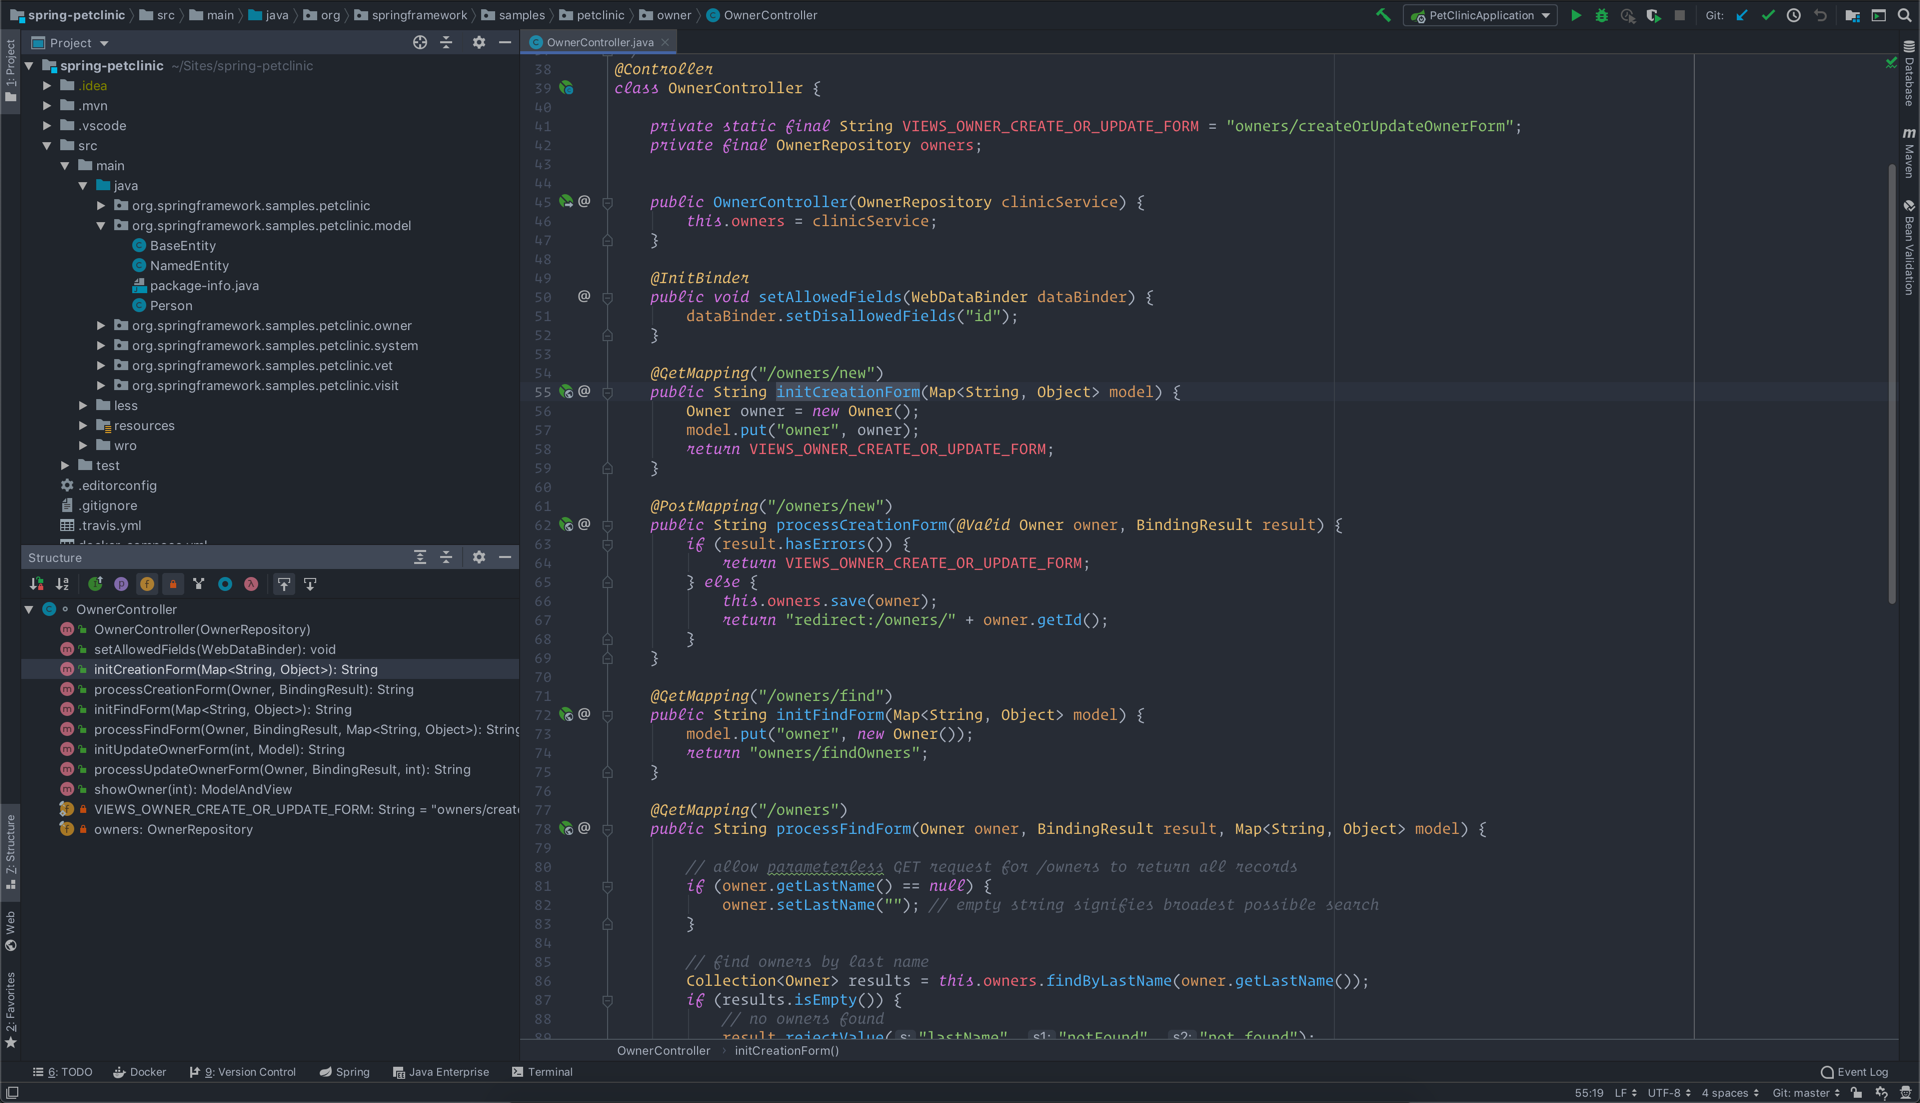
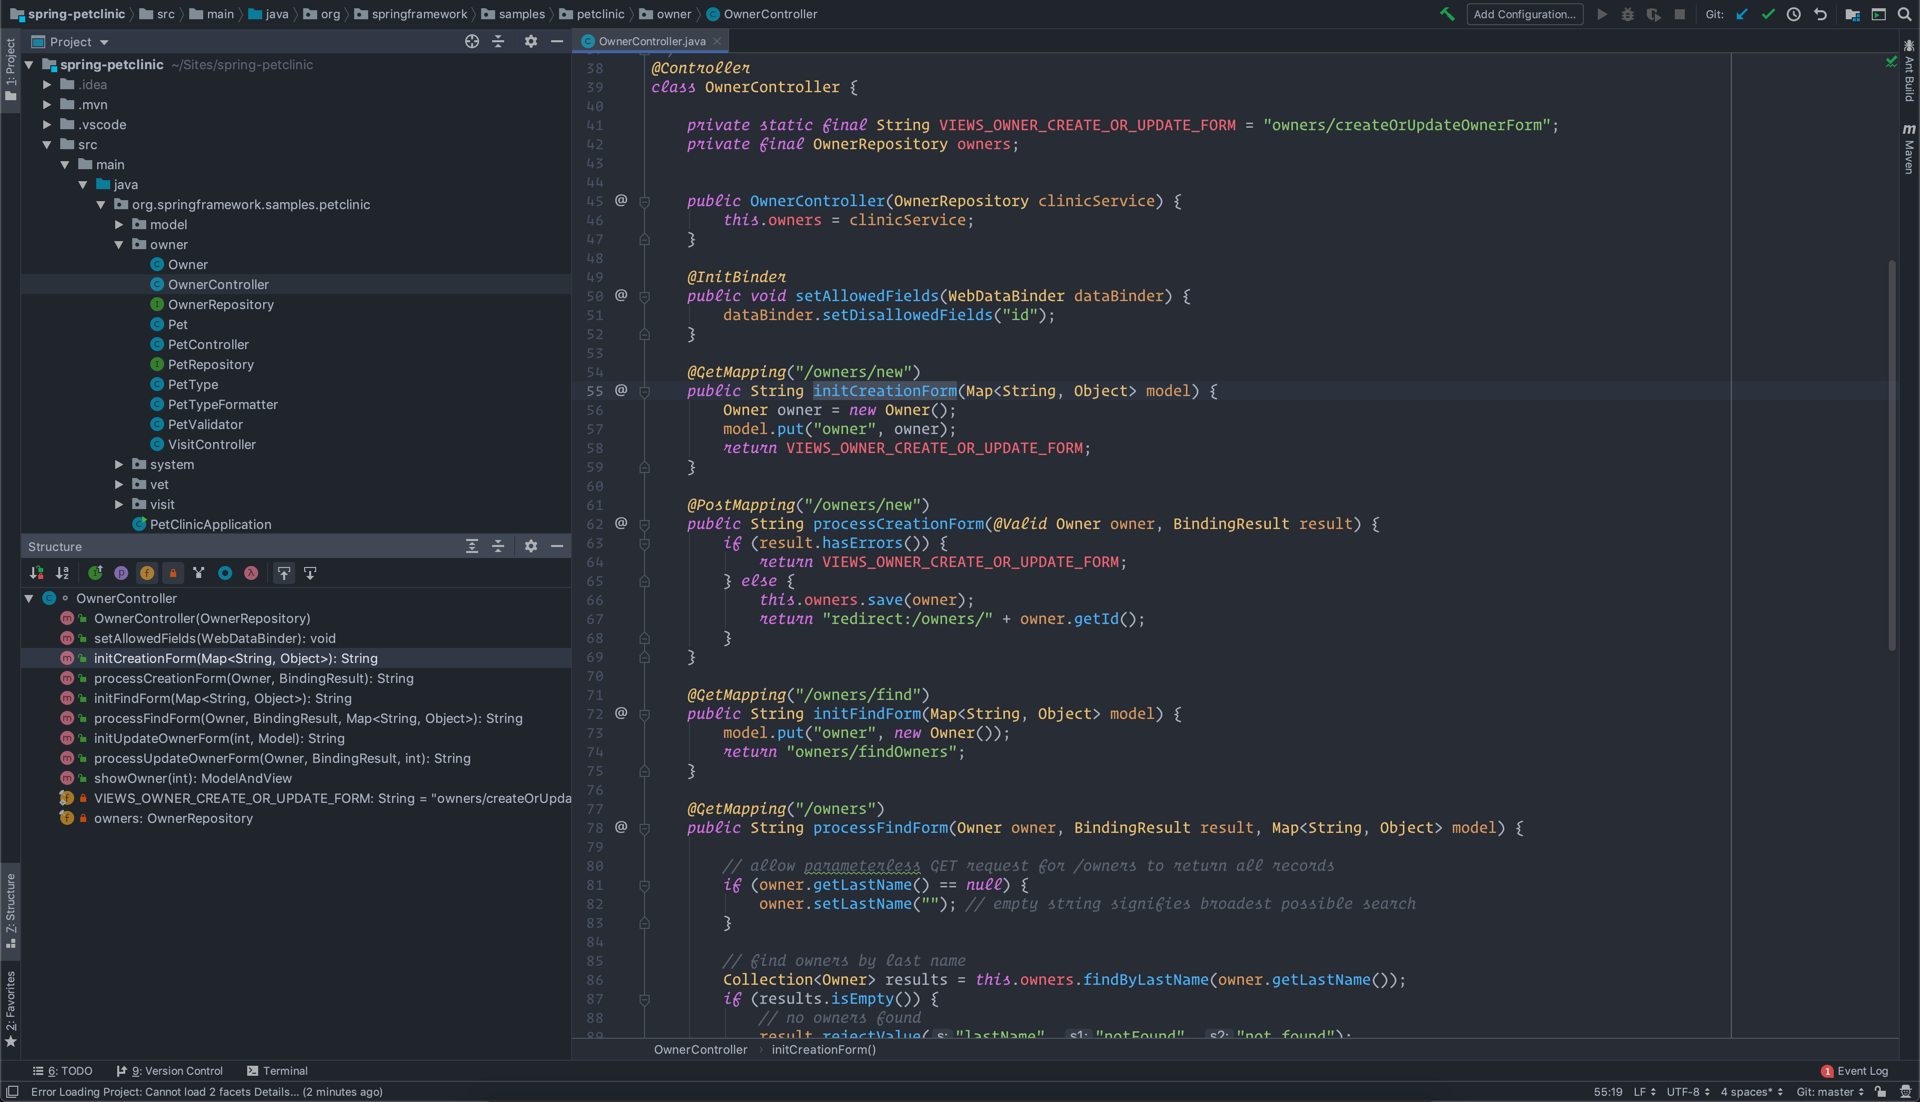
Theme tweaks (#22)
* Update border color

* Update the main border color

* Remove rainbow bracket colors

* Update popup colors

* Update unknown symbol colors

* Update screenshots and changelog

diff --git a/CHANGELOG.md b/CHANGELOG.md
@@ -1,5 +1,14 @@
 # Changelog
 
+#### 2.1.0
+
+- Update border colors
+- Remove Rainbow Bracket colors. These should be defined by each user if they use this plugin.
+- Update ignored file color
+- Update popup colors
+- Change unused symbol to use the default foreground and red underwaved.
+- Update screenshots
+
 #### 2.0.1
 
 - Fixes an issue where the italic theme was not inheriting colors properly due to the CI server changing the order of the JSON theme definition file.
